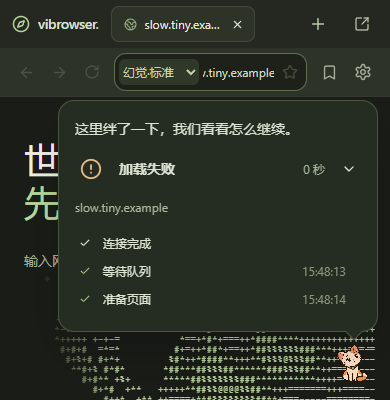
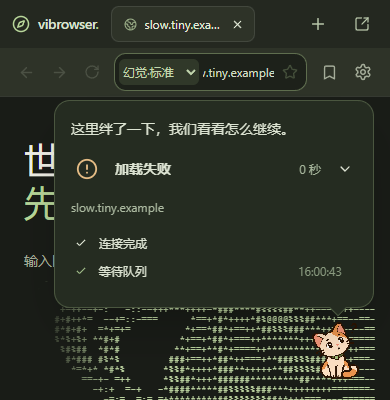
feat: enlarge browser cat and allow bounded dragging

diff --git a/frontend/src/pages/BrowserPage/hooks/useCompanionDrag.ts b/frontend/src/pages/BrowserPage/hooks/useCompanionDrag.ts
@@ -1,0 +1,84 @@
+import { useEffect, useRef, useState } from "react";
+import type { PointerEvent } from "react";
+
+export function useCompanionDrag(enabled: boolean) {
+  const dock = useRef<HTMLElement>(null);
+  const [position, setPosition] = useState({ right: 16, bottom: 16 });
+  const [dragging, setDragging] = useState(false);
+  const suppressClick = useRef(false);
+  const pointer = useRef<{
+    id: number;
+    x: number;
+    y: number;
+    right: number;
+    bottom: number;
+  } | null>(null);
+  const clamp = (right: number, bottom: number) => {
+    const box = dock.current?.getBoundingClientRect();
+    return {
+      right: Math.max(
+        12,
+        Math.min(right, innerWidth - (box?.width ?? 104) - 12),
+      ),
+      bottom: Math.max(
+        12,
+        Math.min(bottom, innerHeight - (box?.height ?? 104) - 112),
+      ),
+    };
+  };
+  useEffect(() => {
+    if (!enabled || !dock.current) return;
+    const resize = () =>
+      setPosition((p) => {
+        const next = clamp(p.right, p.bottom);
+        return next.right === p.right && next.bottom === p.bottom ? p : next;
+      });
+    const observer = new ResizeObserver(resize);
+    observer.observe(dock.current);
+    window.addEventListener("resize", resize);
+    resize();
+    return () => {
+      observer.disconnect();
+      window.removeEventListener("resize", resize);
+    };
+  }, [enabled]);
+  const finish = () => {
+    pointer.current = null;
+    setDragging(false);
+  };
+  return {
+    dock,
+    position,
+    dragging,
+    suppressClick,
+    onPointerDown: (event: PointerEvent<HTMLButtonElement>) => {
+      if (!event.isPrimary || event.button !== 0) return;
+      suppressClick.current = false;
+      pointer.current = {
+        id: event.pointerId,
+        x: event.clientX,
+        y: event.clientY,
+        ...position,
+      };
+      event.currentTarget.setPointerCapture(event.pointerId);
+    },
+    onPointerMove: (event: PointerEvent<HTMLButtonElement>) => {
+      const start = pointer.current;
+      if (!start || start.id !== event.pointerId) return;
+      const dx = event.clientX - start.x,
+        dy = event.clientY - start.y;
+      if (!suppressClick.current && Math.hypot(dx, dy) < 5) return;
+      suppressClick.current = true;
+      setDragging(true);
+      setPosition(clamp(start.right - dx, start.bottom - dy));
+    },
+    onPointerUp: (event: PointerEvent<HTMLButtonElement>) => {
+      if (pointer.current?.id !== event.pointerId) return;
+      finish();
+      if (event.currentTarget.hasPointerCapture(event.pointerId))
+        event.currentTarget.releasePointerCapture(event.pointerId);
+    },
+    onPointerCancel: finish,
+    onLostPointerCapture: finish,
+  };
+}

diff --git a/frontend/src/pages/BrowserPage/components/BrowserCompanion.tsx b/frontend/src/pages/BrowserPage/components/BrowserCompanion.tsx
@@ -5,6 +5,7 @@ import {
   useCompanionPreferences,
   listenCompanionPreferences,
 } from "../stores/companionStore";
+import { useCompanionDrag } from "../hooks/useCompanionDrag";
 import { useCompanion } from "../hooks/useCompanion";
 import { companionProgress } from "../functions/companionRules";
 import { NavigationProgress } from "./NavigationProgress";
@@ -26,6 +27,8 @@ export function BrowserCompanion({
   onSelectCandidate: (id: string) => void;
 }) {
   const preferences = useCompanionPreferences();
+  const { dock, position, dragging, suppressClick, ...dragEvents } =
+    useCompanionDrag(preferences.visible || !!tab.pending);
   const { speech, speak, dismiss } = useCompanion(
     tab,
     preferences,
@@ -48,6 +51,8 @@ export function BrowserCompanion({
   if (!preferences.visible && !pending) return null;
   return (
     <aside
+      ref={dock}
+      style={preferences.visible ? position : undefined}
       aria-label="小猫与浏览进度"
       data-testid="companion-dock"
       className={
@@ -85,8 +90,19 @@ export function BrowserCompanion({
         <button
           aria-label={pending ? "小猫：展开或折叠进度" : "摸摸小猫"}
           aria-expanded={pending ? open : undefined}
-          onClick={() => (pending ? setExpanded((v) => !v) : speak("click"))}
-          className="pointer-events-auto shrink-0 cursor-pointer rounded-xl focus-visible:outline-2 focus-visible:outline-[#b8d69a]"
+          {...dragEvents}
+          title="拖动小猫移动位置，点击互动"
+          onClick={(event) => {
+            if (event.detail !== 0 && suppressClick.current) {
+              suppressClick.current = false;
+              return;
+            }
+            pending ? setExpanded((v) => !v) : speak("click");
+          }}
+          className={
+            "pointer-events-auto shrink-0 touch-none select-none rounded-xl focus-visible:outline-2 focus-visible:outline-[#b8d69a] " +
+            (dragging ? "cursor-grabbing" : "cursor-grab")
+          }
           data-testid="companion-cat"
           data-expression={expression}
         >

diff --git a/frontend/tests/e2e/companion.spec.ts b/frontend/tests/e2e/companion.spec.ts
@@ -214,3 +214,41 @@ test("AI opt-out discards delayed reply and mock API roundtrip works", async ({
   await page.waitForTimeout(1500);
   await expect(page.getByText("关闭后不能显示")).toHaveCount(0);
 });
+
+test("larger cat drags without clicking and stays reachable after resize", async ({
+  page,
+}) => {
+  await setup(page);
+  await page.goto("/");
+  const cat = page.getByTestId("companion-cat");
+  const before = (await cat.boundingBox())!;
+  expect(before.width).toBe(104);
+  await page.mouse.move(before.x + 50, before.y + 50);
+  await page.mouse.down();
+  await page.mouse.move(before.x - 250, before.y - 150, { steps: 8 });
+  await page.mouse.up();
+  const after = (await cat.boundingBox())!;
+  expect(after.x).toBeLessThan(before.x - 200);
+  expect(after.y).toBeLessThan(before.y - 100);
+  await expect(page.getByRole("button", { name: "关闭小猫气泡" })).toHaveCount(
+    0,
+  );
+  await cat.click();
+  await expect(
+    page.getByRole("button", { name: "关闭小猫气泡" }),
+  ).toBeVisible();
+  await page.setViewportSize({ width: 390, height: 600 });
+  await expect.poll(async () => (await cat.boundingBox())!.width).toBe(72);
+  const dock = page.getByTestId("companion-dock");
+  await expect
+    .poll(async () => {
+      const box = (await dock.boundingBox())!;
+      return (
+        box.x >= 0 &&
+        box.y >= 100 &&
+        box.x + box.width <= 390 &&
+        box.y + box.height <= 600
+      );
+    })
+    .toBe(true);
+});

diff --git a/frontend/src/styles.css b/frontend/src/styles.css
@@ -77,8 +77,8 @@
 /* Browser companion: sprite frames and motion remain local to this region. */
 .cat-sprite {
   display: block;
-  width: 72px;
-  height: 72px;
+  width: 104px;
+  height: 104px;
   background-image: url("/companion/cat.png");
   background-size: 300% 200%;
   image-rendering: pixelated;
@@ -115,7 +115,7 @@
   content: "";
   position: absolute;
   bottom: -7px;
-  right: 27px;
+  right: 45px;
   width: 12px;
   height: 12px;
   background: #252c21;
@@ -158,11 +158,11 @@
 }
 @media (max-width: 639px) {
   .cat-sprite {
-    width: 48px;
-    height: 48px;
+    width: 72px;
+    height: 72px;
   }
   .cat-bubble::after {
-    right: 17px;
+    right: 29px;
   }
 }
 @media (prefers-reduced-motion: reduce) {
